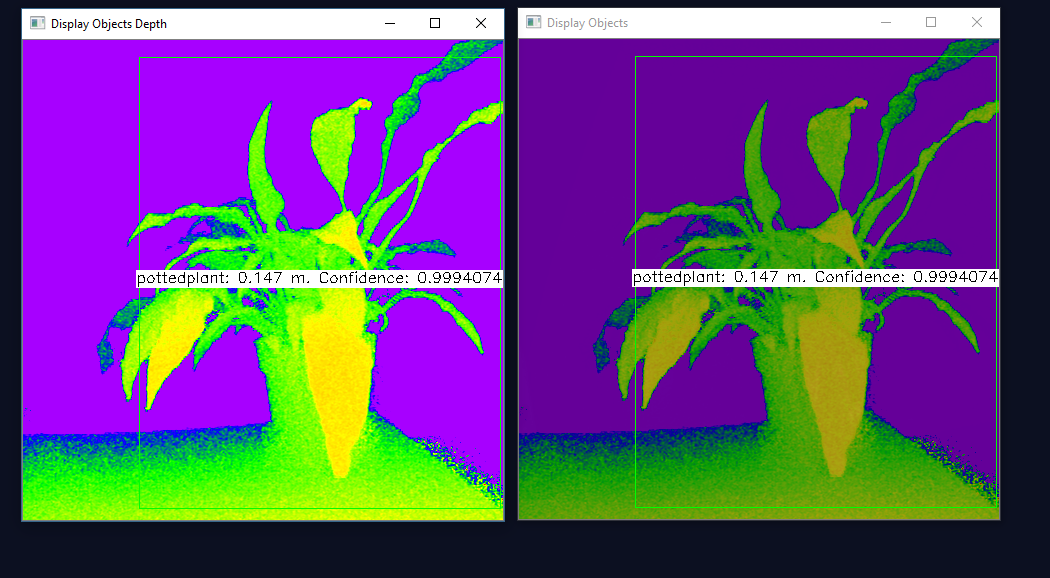
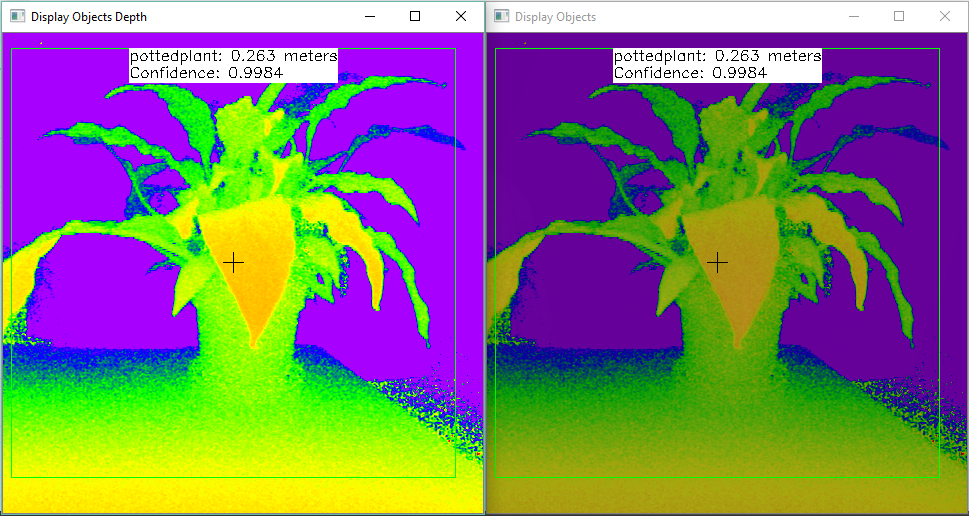
python/OpenCV/dnn: added crosshair
Added crosshair and moved the label on the top.
Corrected bug on the distance calculation.
Renewed the example image.

diff --git a/bindings/python/examples/dnn/dnn.py b/bindings/python/examples/dnn/dnn.py
@@ -162,11 +162,15 @@ if __name__ == "__main__":
                 cv.rectangle(depth_map, (xLeftBottom, yLeftBottom), (xRightTop, yRightTop),
                              (0, 255, 0))
                 center = ((xLeftBottom + xRightTop) * 0.5, (yLeftBottom + yRightTop) * 0.5)
+
+                value_x = int(center[0])
+                value_y = int(center[1])
+                cv.drawMarker(result, (value_x, value_y), (0, 0, 0), cv.MARKER_CROSS)
+                cv.drawMarker(depth_map, (value_x, value_y), (0, 0, 0), cv.MARKER_CROSS)
+
                 if class_id in classNames:
-                    value_x = int(center[0])
-                    value_y = int(center[1])
                     label_depth = classNames[class_id] + ": " + \
-                            "{0:.3f}".format(distance_map[value_x, value_y] / 1000.0 * 0.3) + " meters"
+                            "{0:.3f}".format(distance_map[value_x, value_y] / 1000.0) + " meters"
                     label_conf = "Confidence: " + "{0:.4f}".format(confidence)
                     labelSize_depth, baseLine = cv.getTextSize(label_depth, cv.FONT_HERSHEY_SIMPLEX, 0.5, 1)
                     labelSize_conf = cv.getTextSize(label_conf, cv.FONT_HERSHEY_SIMPLEX, 0.5, 1)
@@ -176,20 +180,22 @@ if __name__ == "__main__":
                     else:
                         labelSize = labelSize_conf
                     yLeftBottom = max(yLeftBottom, labelSize[1])
-                    cv.rectangle(result, (value_x - int(labelSize[0] * 0.5), value_y - labelSize[1]),
-                                 (value_x + int(labelSize[0] * 0.5), value_y + labelSize[1] + 2 * baseLine),
+                    cv.rectangle(result, (value_x - int(labelSize[0] * 0.5), yLeftBottom),
+                                 (value_x + int(labelSize[0] * 0.5), yLeftBottom + 2 * labelSize[1] + 2 * baseLine),
                                  (255, 255, 255), cv.FILLED)
-                    cv.putText(result, label_depth, (value_x - int(labelSize[0] * 0.5), value_y),
+                    cv.putText(result, label_depth, (value_x - int(labelSize[0] * 0.5), yLeftBottom + labelSize[1]),
                                cv.FONT_HERSHEY_SIMPLEX, 0.5, (0, 0, 0))
-                    cv.putText(result, label_conf, (value_x - int(labelSize[0] * 0.5), value_y + labelSize[1] + baseLine),
+                    cv.putText(result, label_conf, (value_x - int(labelSize[0] * 0.5), yLeftBottom + 2 * labelSize[1]
+                                                    + baseLine),
                                cv.FONT_HERSHEY_SIMPLEX, 0.5, (0, 0, 0))
 
-                    cv.rectangle(depth_map, (value_x - int(labelSize[0] * 0.5), value_y - labelSize[1]),
-                                 (value_x + int(labelSize[0] * 0.5), value_y + labelSize[1] + 2 * baseLine),
+                    cv.rectangle(depth_map, (value_x - int(labelSize[0] * 0.5), yLeftBottom),
+                                 (value_x + int(labelSize[0] * 0.5), yLeftBottom + 2 * labelSize[1] + 2 * baseLine),
                                  (255, 255, 255), cv.FILLED)
-                    cv.putText(depth_map, label_depth, (value_x - int(labelSize[0] * 0.5), value_y),
+                    cv.putText(depth_map, label_depth, (value_x - int(labelSize[0] * 0.5),  yLeftBottom + labelSize[1]),
                                cv.FONT_HERSHEY_SIMPLEX, 0.5, (0, 0, 0))
-                    cv.putText(depth_map, label_conf, (value_x - int(labelSize[0] * 0.5), value_y + labelSize[1] + baseLine),
+                    cv.putText(depth_map, label_conf, (value_x - int(labelSize[0] * 0.5), yLeftBottom + 2 * labelSize[1]
+                                                       + baseLine),
                                cv.FONT_HERSHEY_SIMPLEX, 0.5, (0, 0, 0))
 
         # Show image with object detection
